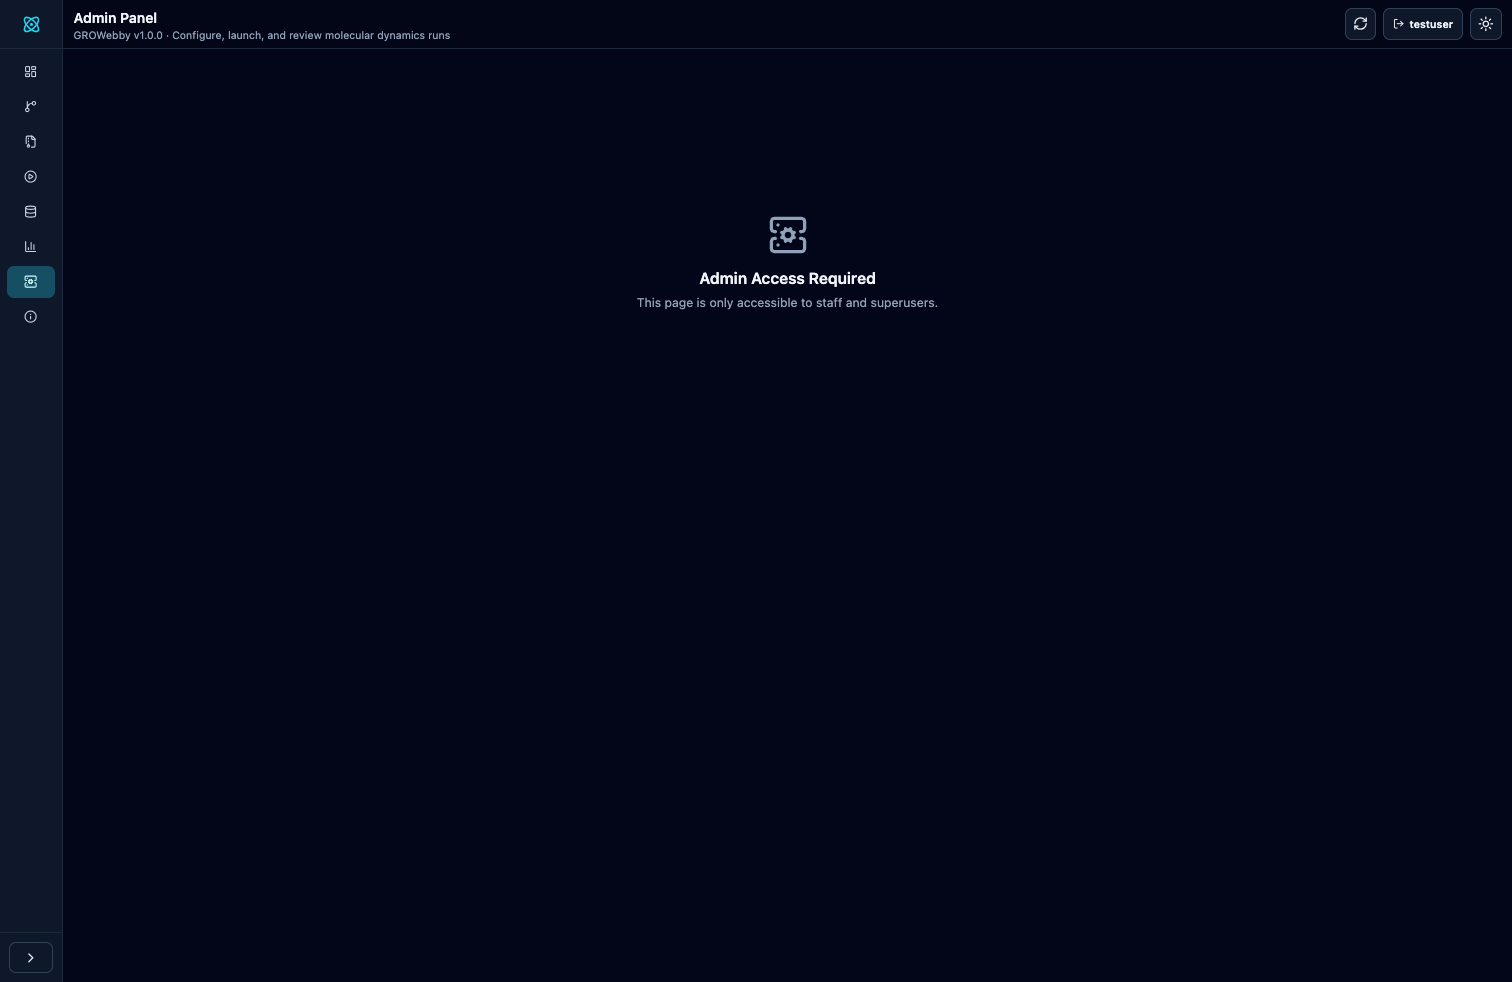
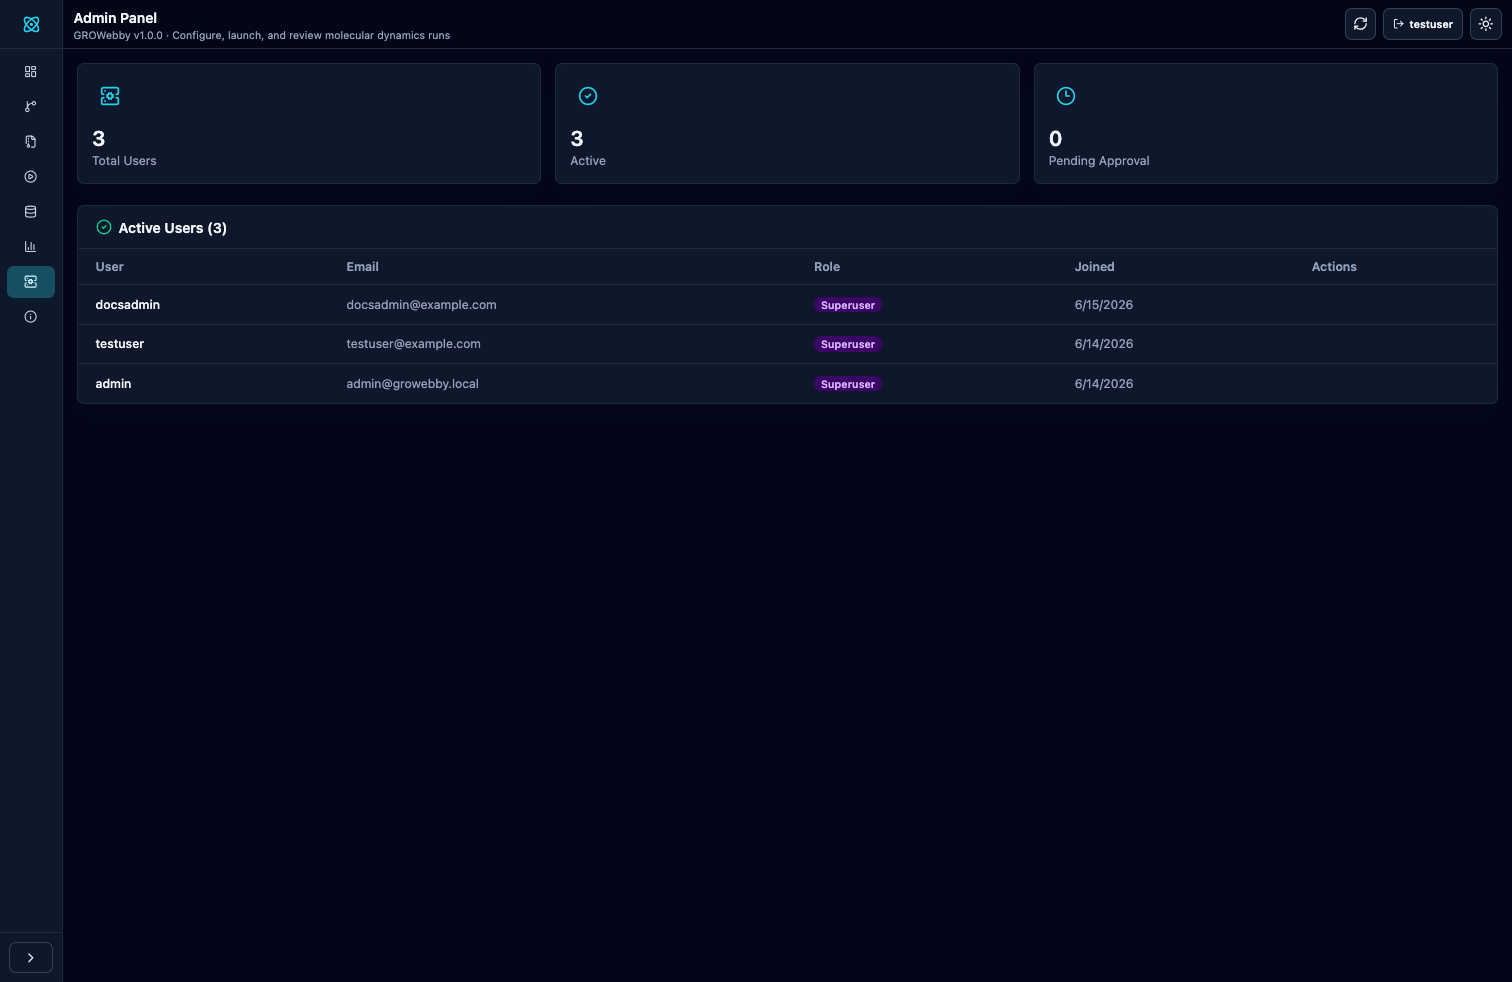
docs: add screenshots for all UI views

diff --git a/docs/user-guide.md b/docs/user-guide.md
@@ -112,9 +112,21 @@ Open the active run in Results and click Cancel run. GROWebby stores the active 
 
 If a run is still queued or between commands, cancellation marks it as cancelled before the next GROMACS command starts.
 
+## Simulation Runs
+
+The Simulation Runs page lists all your active, queued, completed, and failed runs.
+
+![Simulation Runs](assets/runs.png)
+
+Runs can be deleted from the Simulation Runs page. Deleting a run removes the run record from the app. Treat this as a cleanup action; export or preserve important output files first.
+
 ## Results Workspace
 
-The Results page is the main inspection page for a run. It includes:
+The Results page is the main inspection page for a run.
+
+![Results Workspace](assets/results.png)
+
+It includes:
 
 - Run status and progress.
 - Execution mode.
@@ -135,6 +147,8 @@ The log window shows clean run events. Full GROMACS command output is saved as l
 
 GROWebby stores per-step metrics as CSV artifacts. The plotting panels support:
 
+![Stats and Plots](assets/stats.png)
+
 - Stage filtering.
 - Editable plot titles.
 - Area or line display.
@@ -147,10 +161,6 @@ GROWebby stores per-step metrics as CSV artifacts. The plotting panels support:
 The plots are meant for quick review. For publication-quality analysis, export the CSV files and process them with your lab's preferred analysis tools.
 
 During active `mdrun` stages, plots update with live progress points first. Once GROMACS energy files are readable, the plot data is replaced with extracted GROMACS energy, temperature, pressure, and density values where available.
-
-## Deleting Runs
-
-Runs can be deleted from the Simulation Runs page. Deleting a run removes the run record from the app. Treat this as a cleanup action; export or preserve important output files first.
 
 ## Example Setups
 
